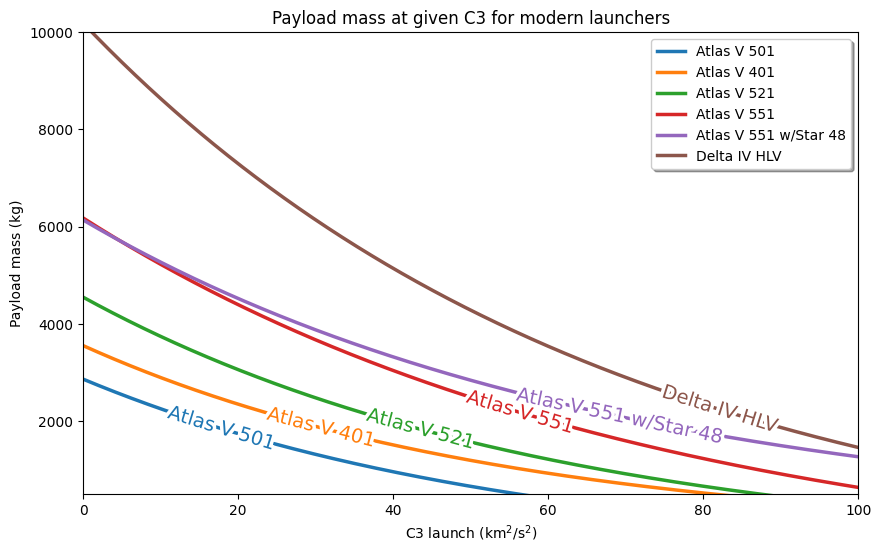
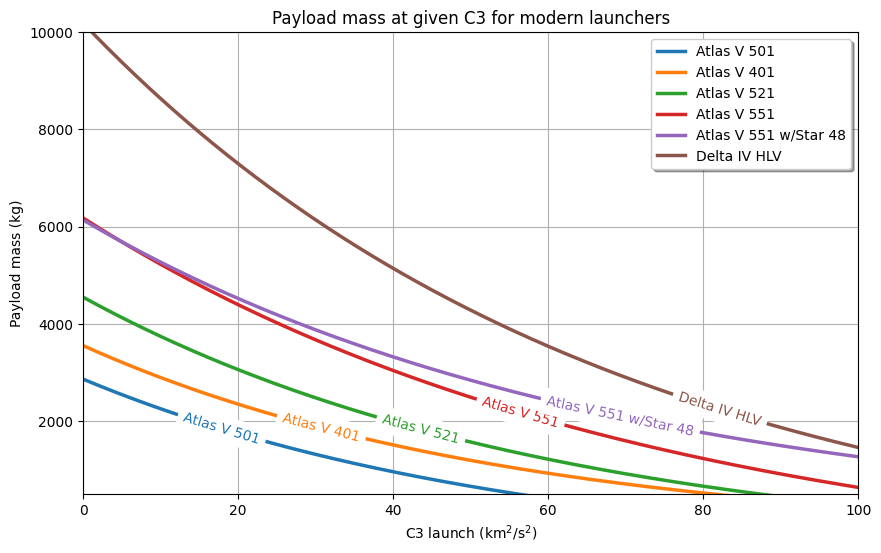
feat: last additions

Changed region(s): [[0.521, 0.6763, 0.8888, 0.7993], [0.1839, 0.7378, 0.5516, 0.83]]

diff --git a/src/04_alternate/gravity_assist_analysis.tex b/src/04_alternate/gravity_assist_analysis.tex
@@ -55,7 +55,10 @@ of $v_{\infty}$ at each planet of the solar system.
 \begin{figure}[H]
   \centering
   \includegraphics[width=0.9\textwidth]{fig/static/deflection_angle.png}
-  \caption[Maximum deflection angle as a function of the speed of the spacecraft at different planets.]{Maximum deflection angle as a function of the speed of the spacecraft at different planets.}
+  \caption[Maximum deflection angle as a function of the speed of the spacecraft
+        at different planets.]{Maximum deflection angle as a function of the
+        speed of the spacecraft at different planets. Flyby altitude is
+        $h = R_p$.}
   \label{fig:deflection-angle-at-speed}
 \end{figure}
 
@@ -64,8 +67,8 @@ of $v_{\infty}$ at each planet of the solar system.
   \includegraphics[width=0.9\textwidth]{fig/static/max_energy.png}
   \caption[Maximum energy increment as a function of the speed of the
     spacecraft at different planets.]{Maximum energy increment as a function
-    of the speed of the spacecraft at different planets. Mean values for
-    planetary orbital speed were used.}
+    of the speed of the spacecraft at different planets. Evaluated at the
+        maximum deflection angle. Mean values for planetary orbital speed were used.}
   \label{fig:max-energy-at-speed}
 \end{figure}
 
@@ -110,3 +113,8 @@ incoming hyperbolic speed vector and its magnitude will determine the state
 after the gravity assist. In fact, it may be possible that a gravity assist is
 not beneficial at all, requiring more fuel to insert the spacecraft into the
 right flyby trajectory and incresing the time of flight of the mission.
+
+Computation for the most optimum transfers between L2 and inner planets show
+that for the case of 'Oumuamua and Borisov, performing an impulse to any near
+planet already requires more energy than the one for a direct transfer to the
+interloper.

diff --git a/src/04_alternate/intro.tex b/src/04_alternate/intro.tex
@@ -1,6 +1,6 @@
 \chapter{Alternate transfers}
 
-After the results obtained in section \ref{sec:direct-summary}, it is possible
+After the results obtained in section \ref{sec:optimum-transfer}, it is possible
 now to study the possibility of using alternate transfers. The main goal of this
 second analysis is to find a suitable transfer that is less expensive than a
 direct transfer from the Earth. For this purpose, the following scenarios are

diff --git a/bin/mass_vs_c3.py b/bin/mass_vs_c3.py
@@ -55,8 +55,9 @@ def main():
     ax.set_ylabel('Payload mass (kg)')
     ax.set_xlim(0, 100)
     ax.set_ylim(500, 10000)
-    labelLines(ax.get_lines(), align=True, fontsize=14)
+    labelLines(ax.get_lines(), align=True, fontsize=10, backgroundcolor="white")
     ax.legend(shadow=True)
+    ax.grid(True)
     plt.savefig('fig/static/payload_vs_c3.png', bbox_inches='tight')
 
 if __name__ == '__main__':

diff --git a/src/03_direct/optimum_transfer.tex b/src/03_direct/optimum_transfer.tex
@@ -1,4 +1,5 @@
 \section{Optimum transfer}
+\label{sec:optimum-transfer}
 
 Once direct transfers (prograde and retrograde) have been computed for each pair
 of launch and arrival dates, the most optimum transfer orbit can be identified.

diff --git a/bin/max_energy_change.py b/bin/max_energy_change.py
@@ -59,4 +59,5 @@ for planet in PLANETS:
             lw=2.5)
 
 labelLines(ax.get_lines(), align=True, fontsize=14)
+ax.grid(True)
 plt.savefig("fig/static/max_energy.png", bbox_inches="tight")
